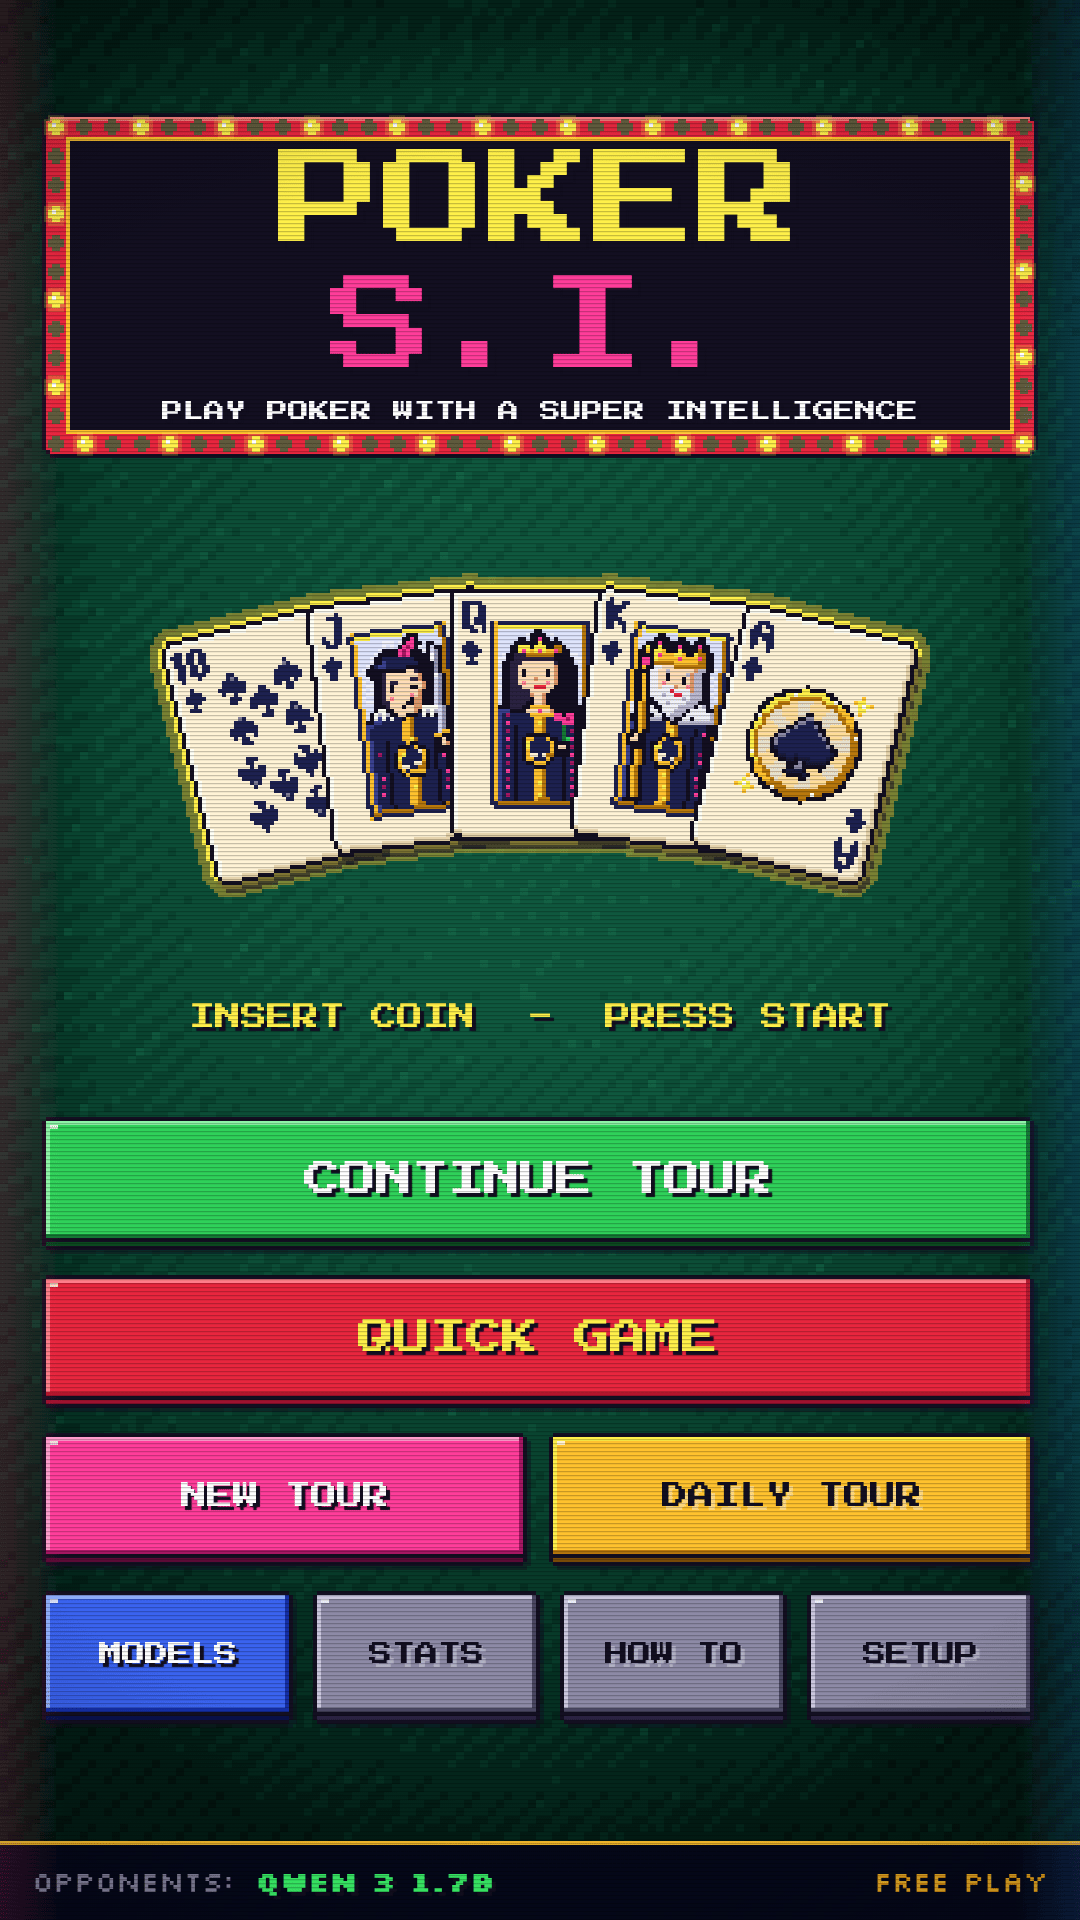
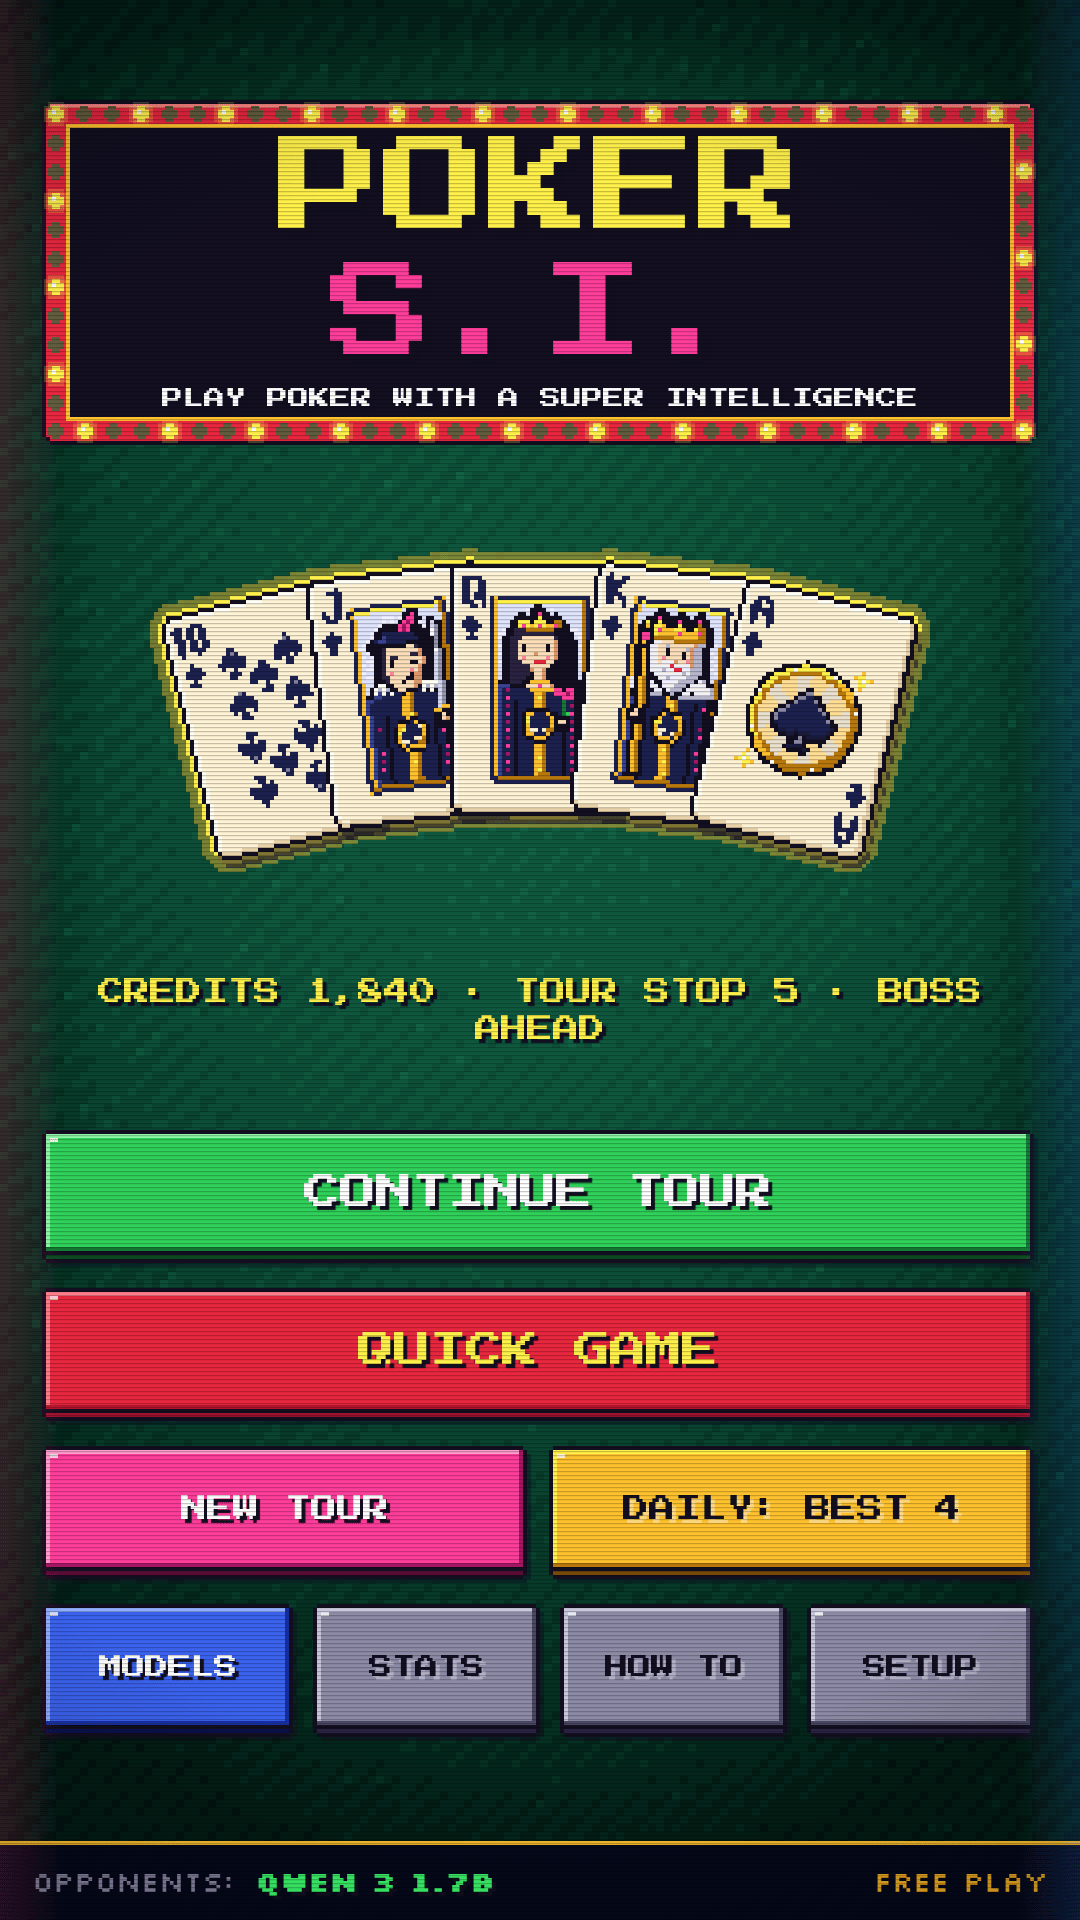
Docs and screenshots: table talk, debug console, attract line
Claude-Session: https://claude.ai/code/session_01YWx5jg86qPcaEJGss8wAD8

Changed region(s): [[0.0306, 0.5, 0.9472, 0.9062], [0.0306, 0.0312, 0.9778, 0.25], [0.1222, 0.2812, 0.8556, 0.4688]]

diff --git a/AGENTS.md b/AGENTS.md
@@ -31,33 +31,42 @@ Same as the author's other Android apps (bf-12c, CozyGrams):
     GitHub issue), the privacy policy and the source code: intents to the
     share sheet, Play Store and browser, never a network call. A missing
     handler returns false instead of crashing.
-  - `game/` — `GameController` (runs a table for the UI), settings, the
-    saved run, the daily record and `Stats` (lifetime records for the
-    STATS screen, fed by `GameController` at each hand's end), all in
-    SharedPreferences.
+  - `game/` — `GameController` (runs a table for the UI, and owns each
+    table's `TableTalk`), settings, the saved run, the daily record and
+    `Stats` (lifetime records for the STATS screen, fed by `GameController`
+    at each hand's end), all in SharedPreferences; `AttractLines` (the title
+    screen's cycling credits/tour/daily/records line).
+  - `debug/` — `AiLog`, the debug console's bounded (400 entries),
+    thread-safe ring buffer: prompts, grammars, streaming replies, timings,
+    parsed and coerced decisions, fallbacks, engine and table events.
   - `engine/` — the poker. **Pure Kotlin, no `android.*` imports**, fully
     unit-tested. Cards and seeded decks, the hand evaluator (high hands,
     best 5 of N, Omaha's exactly-two rule, short-deck ranking), every
     `GameVariant`, the hand state machine with side pots, the agent contract
     (`Agent.kt`), `HouseBot` (a heuristic opponent, used with no model
-    loaded and whenever the LLM fails), Monte Carlo equity.
+    loaded and whenever the LLM fails), Monte Carlo equity, and `TableTalk`
+    (what has been said at a table, for keeping lines fresh).
   - `run/` — the roguelite "Run" mode: tables (blinds) of rising stakes,
     boss opponents with rule twists, choosing your next table, seeded runs
     and the daily run. Pure Kotlin too.
   - `llm/` — `LlamaNative` (JNI surface), `LlamaEngine` (loads one model,
     serializes every call on one thread), the model catalog, downloads
     (WorkManager), model storage (app storage + user-picked SAF folders),
-    the prompt builder, GBNF grammar and reply parser (`LlmAgent`).
+    the prompt builder, GBNF grammar and reply parser (`LlmAgent`, which
+    talks to a model through `LlmBackend`), and `TalkPlan` (what a character
+    talks about this turn).
   - `ui/` — Compose. The pixel design system (`ui/pixel/`: fonts, palette,
     `PixelCard`, buttons, LED digits, green felt, CRT overlay, procedural
     pixel avatars, chiptune sound), and the screens: title, game picker,
-    table, run tour, models, how-to-play, settings, stats, and the
-    first-run tips overlay (`Tips.kt`).
+    table, run tour, models, how-to-play, settings, stats, the first-run
+    tips overlay (`Tips.kt`) and the drop-down `DebugConsole`.
 - `app/src/test/` — JVM unit tests (engine, run, prompt/grammar/parser,
-  stats, links). `InvariantsTest` checks the rules below that a compiler
-  can't.
+  table talk, the console log, stats, links). `InvariantsTest` checks the
+  rules below that a compiler can't.
 - `tools/` — `icon/gen_icon.py` (launcher icon), `screenshots/`
-  (Play/README screenshots and captions).
+  (Play/README screenshots and captions), `llm-harness/` (the real prompts
+  and grammars through llama.cpp on a desktop, single cases and whole
+  sessions of table talk).
 
 ## Design rules
 
@@ -71,6 +80,17 @@ Same as the author's other Android apps (bf-12c, CozyGrams):
   decision first so a small model can't talk itself out of it, then
   clamped to a legal action by `LegalActions.coerce`. If generation fails
   or times out, `HouseBot` decides instead and the hand carries on.
+- **Table talk stays fresh.** Small models parrot whatever the prompt
+  repeats, so the catchphrase is not in the prompt (it is said when a
+  character sits down, and offered only now and then by `TalkPlan`). Each
+  prompt carries a short, varied hint (react to the last action, answer
+  whoever spoke, tease someone, the pot, the board, something in
+  character), the latest lines by others and the character's own last
+  lines. One `TableTalk` per table, shared by every seat (LLM and House
+  Bot) and new for each table, remembers what was said; a line that
+  repeats it (same words, mostly the same words, or the catchphrase
+  uninvited) is held back while it streams and swapped for a House Bot
+  line nobody said lately, or silence.
 - **No model? Still playable.** With no model loaded, opponents are played
   by `HouseBot` and the table says so. The game never blocks on a download.
 - **Infinitely replayable.** Random personas, six variants, the Run mode's
@@ -93,6 +113,10 @@ Same as the author's other Android apps (bf-12c, CozyGrams):
   region, and every action button is at least 48dp tall.
 - Poker on a green table, not a deck-builder: no Jokers, no shop.
 - Keep the engine pure: all Android code lives outside `engine/` and `run/`.
+- The debug console (SETTINGS > DEBUG CONSOLE, "~" at the table and in the
+  model bay, or a keyboard's backtick) is off by default, and `AiLog`
+  records nothing unless it is on; switching it off clears it. It never
+  leaves the phone except by the player's own COPY.
 
 ## Build, test, release
 

diff --git a/README.md b/README.md
@@ -50,6 +50,12 @@ download a model.
   plain words. The reply is held to a tiny JSON shape by a grammar
   (`{"action": "raise", "amount": 120, "say": "..."}`, the decision first), the line it says
   shows up in a speech bubble, and the action is clamped to something legal.
+- **Table talk that doesn't repeat.** Each turn a character gets a
+  different nudge (react to the last bet, answer whoever spoke, tease
+  someone, the pot, the board, something in character) plus what was just
+  said at the table, so they banter with each other. The table remembers
+  every line: a character that starts repeating itself (or anyone else) is
+  cut off before the line shows.
 - **House Bot when there's no model.** With nothing loaded, a built-in
   heuristic opponent plays every seat and the table says so. It also steps
   in for any decision the model fumbles or takes too long on, so a hand
@@ -69,6 +75,13 @@ download a model.
 - **Accessible.** TalkBack reads cards ("Ace of hearts, held"), opponents
   (name, chips, last action, what they say), the pot and your chips, and
   announces each action at the table.
+- **Debug console.** For the curious: turn on SETTINGS > DEBUG CONSOLE and
+  a "~" at the table (and in MODELS, or a keyboard's backtick) drops down a
+  Quake-style terminal with every prompt sent to the model, its raw reply as
+  it streams, timings and tokens per second, the decision before and after
+  it was made legal, every House Bot fallback and why, and model loads and
+  failures. Filter, clear, or copy it as plain text. Off by default, and it
+  records nothing while off.
 - **No nagging.** Share, rate on Google Play, send feedback (a GitHub
   issue), the privacy policy and the source code are plain links under
   SETTINGS > ABOUT, never a prompt.
